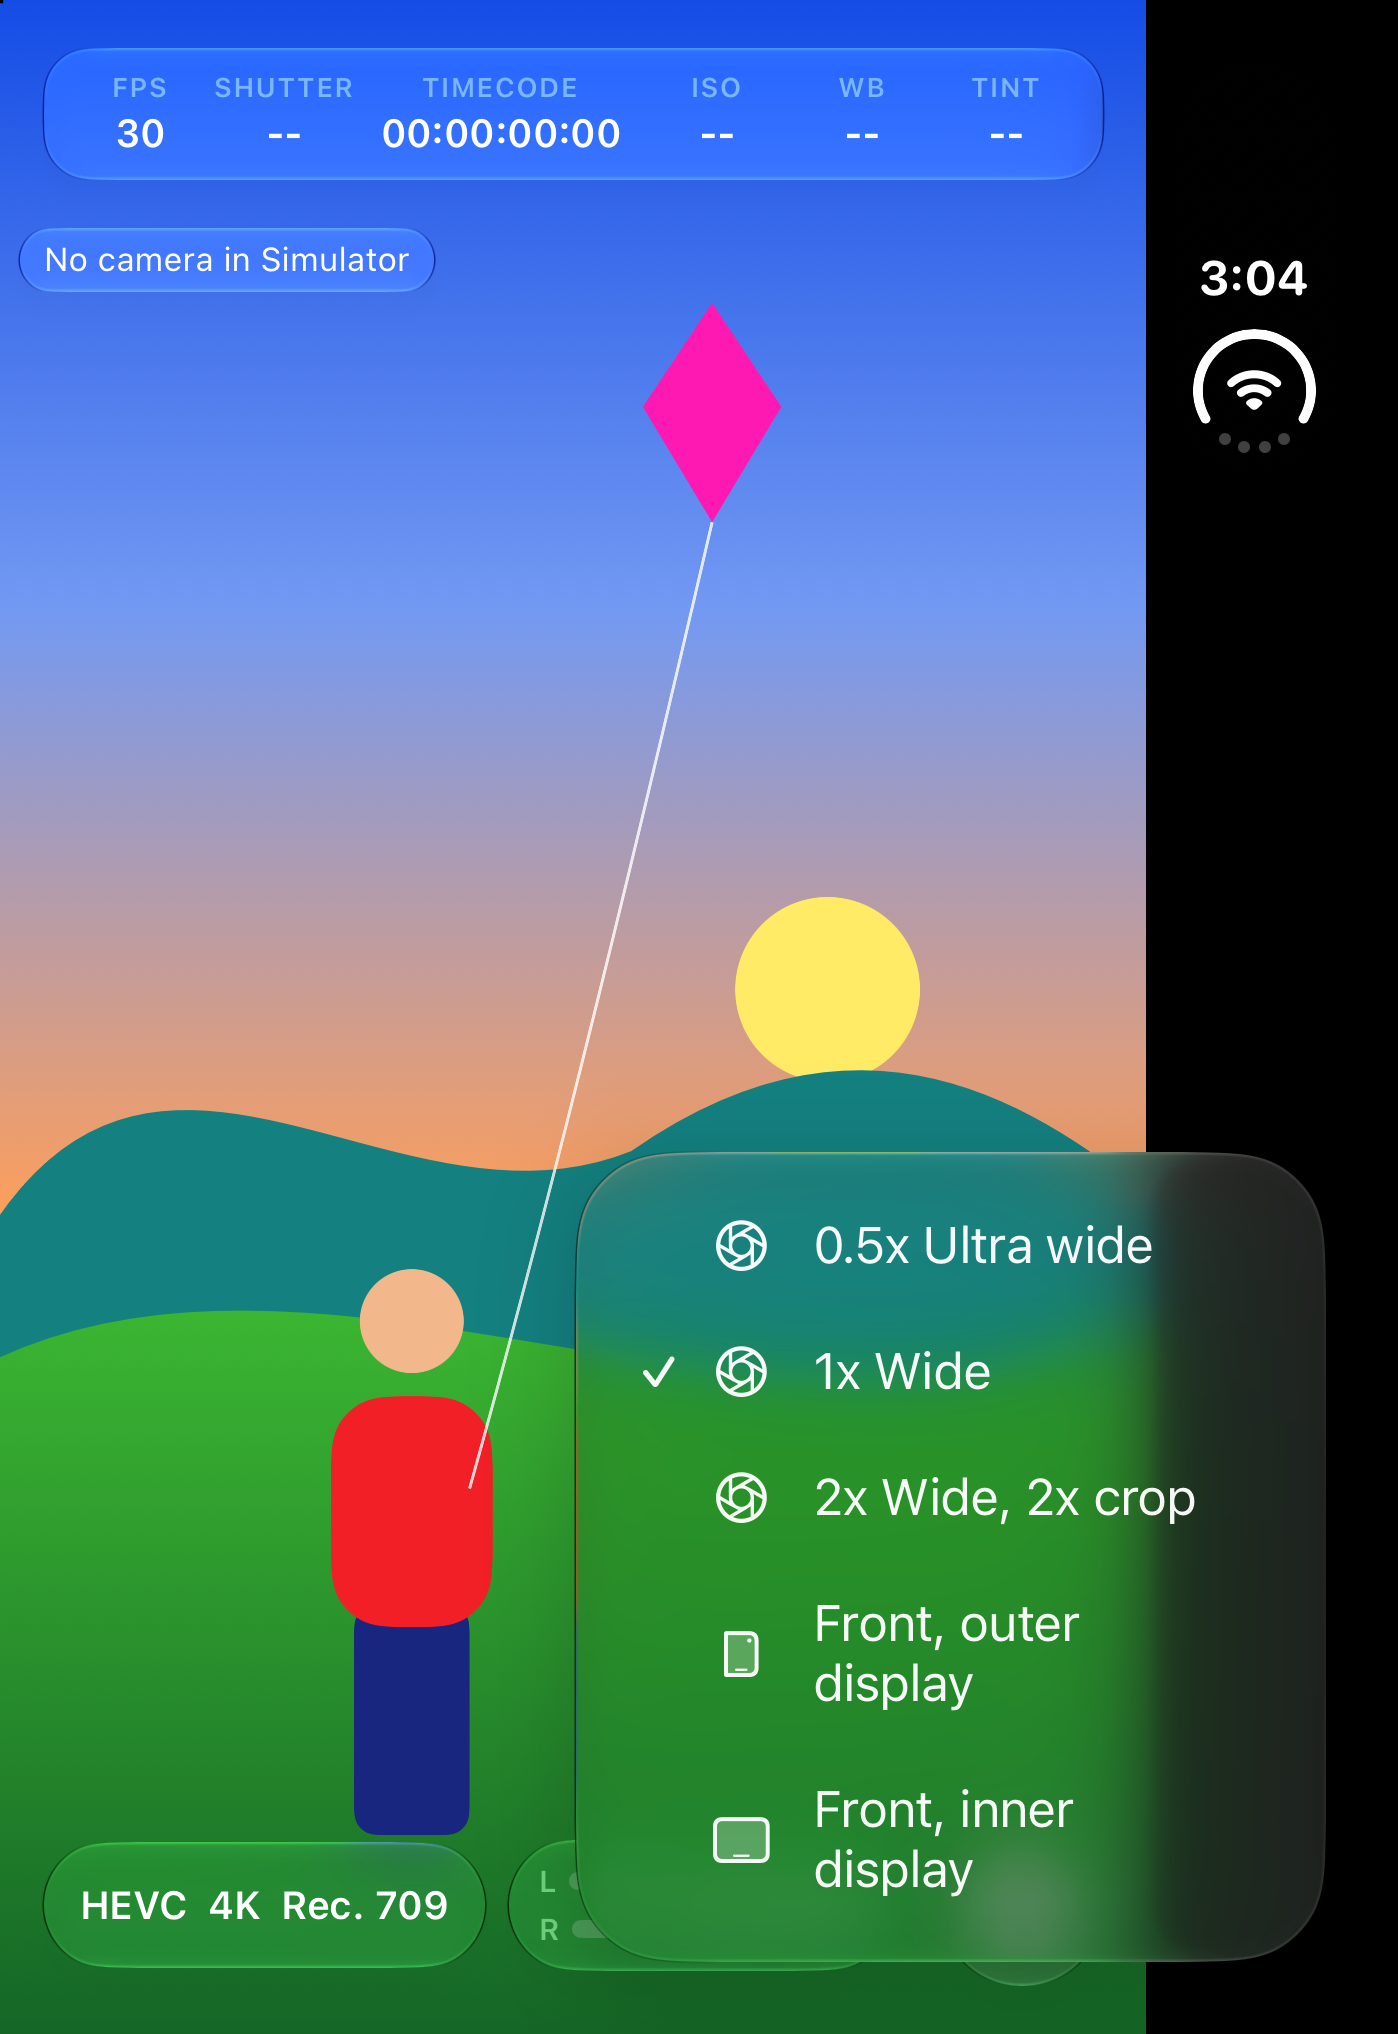
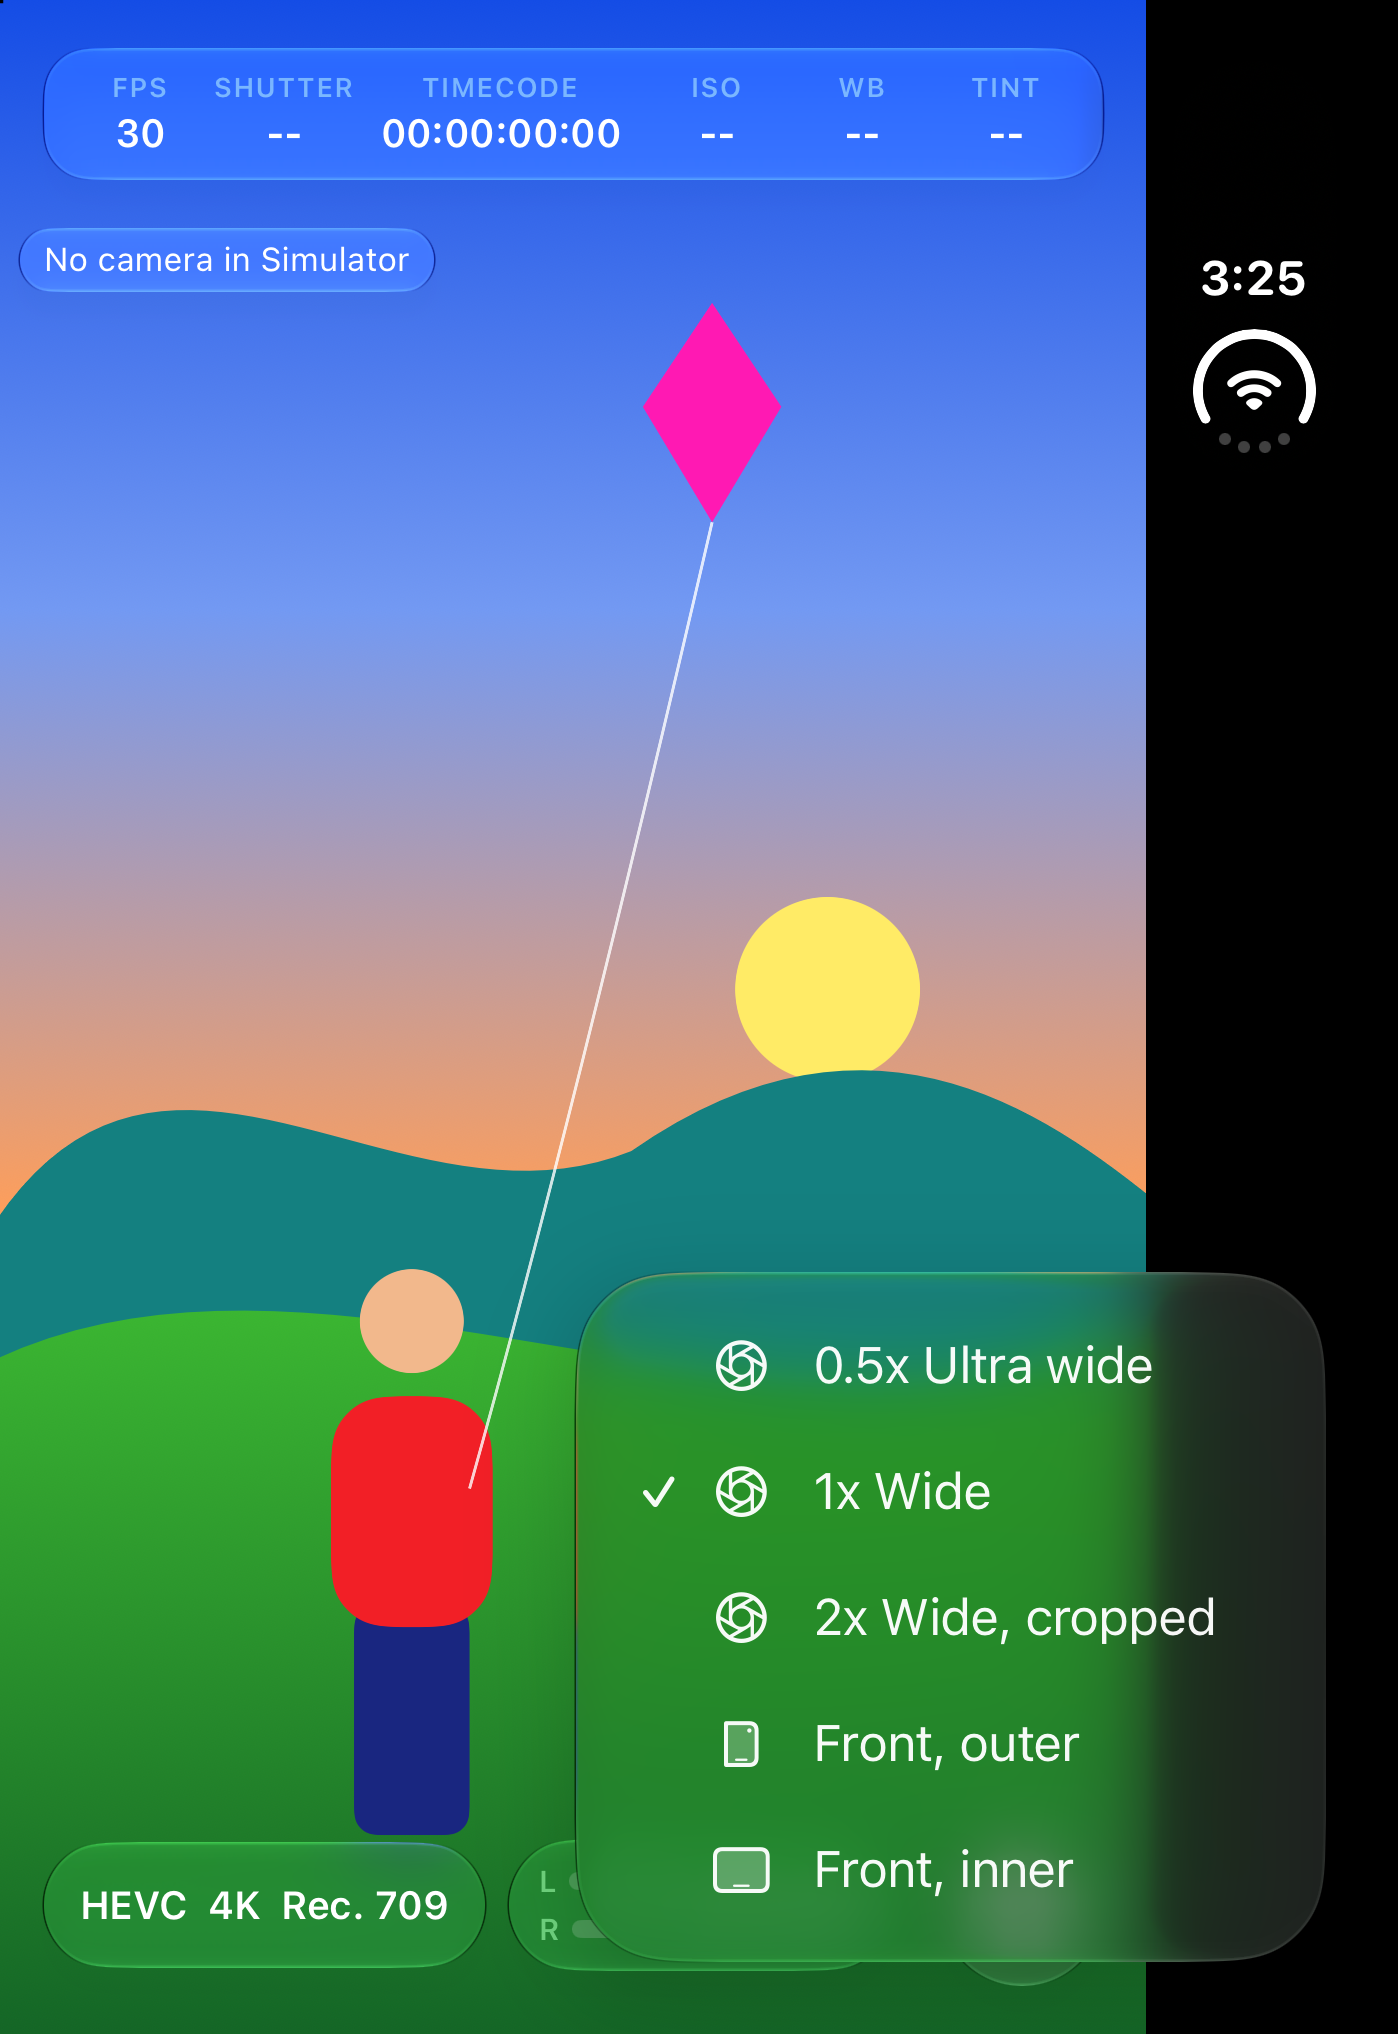
fix: shorten the lens menu titles so each row fits on one line

diff --git a/OpenCamTests/LensBadgeTests.swift b/OpenCamTests/LensBadgeTests.swift
@@ -14,8 +14,8 @@ import UIKit
         let crop = LensBadge.make(for: lens(.wide, zoom: 2, label: "2x"))
         #expect(ultraWide.shortText == "0.5x"); #expect(wide.shortText == "1x"); #expect(crop.shortText == "2x")
         #expect([ultraWide, wide, crop].allSatisfy { $0.symbol == nil })
-        #expect(ultraWide.menuTitle == "Ultra wide"); #expect(wide.menuTitle == "Wide"); #expect(crop.menuTitle == "Wide, 2x crop")
-        #expect(ultraWide.rowTitle == "0.5x Ultra wide")
+        #expect(ultraWide.menuTitle == "Ultra wide"); #expect(wide.menuTitle == "Wide"); #expect(crop.menuTitle == "Wide, cropped")
+        #expect([ultraWide, wide, crop].map(\.rowTitle) == ["0.5x Ultra wide", "1x Wide", "2x Wide, cropped"])
     }
 
     /// The device names them by their long localized names; the strip shows a symbol of the phone instead.
@@ -28,8 +28,8 @@ import UIKit
             #expect(UIImage(systemName: symbol) != nil)
         }
         #expect(outer.symbol != inner.symbol)
-        #expect(outer.menuTitle == "Front, outer display"); #expect(inner.menuTitle == "Front, inner display")
-        #expect(outer.rowTitle == "Front, outer display")
+        #expect(outer.menuTitle == "Front, outer"); #expect(inner.menuTitle == "Front, inner")
+        #expect(outer.rowTitle == "Front, outer"); #expect(inner.rowTitle == "Front, inner")
         #expect(UIImage(systemName: LensBadge.backLensSymbol) != nil)
     }
 
@@ -46,7 +46,10 @@ import UIKit
         #expect(Set(lenses.map(\.kind)) == [.ultraWide, .wide, .outerUltraWide, .innerUltraWide])
         try #require(lenses.count == 5)
         let titles = lenses.map { LensBadge.make(for: $0).rowTitle }
+        #expect(titles == ["0.5x Ultra wide", "1x Wide", "2x Wide, cropped", "Front, outer", "Front, inner"])
         #expect(Set(titles).count == 5)
-        #expect(titles.allSatisfy { $0.count <= 24 })
+        // Short enough for one line in the folded display's menu, and each zoom named once in its row.
+        #expect(titles.allSatisfy { $0.count <= 16 })
+        #expect(titles.allSatisfy { title in ["0.5x", "1x", "2x"].allSatisfy { title.components(separatedBy: $0).count <= 2 } })
     }
 }

diff --git a/OpenCam/Capability/LensBadge.swift b/OpenCam/Capability/LensBadge.swift
@@ -10,7 +10,7 @@ nonisolated struct LensBadge: Sendable, Equatable {
 
     var shortText: String?        // "0.5x", "1x", "2x" for back lenses; nil when the strip shows only a symbol
     var symbol: String?           // an SF Symbol name for the front cameras; nil for back lenses
-    var menuTitle: String         // "Ultra wide", "Wide", "Wide, 2x crop", "Front, outer display", "Front, inner display"
+    var menuTitle: String         // "Ultra wide", "Wide", "Wide, cropped", "Front, outer", "Front, inner"
 
     /// The menu row's title: the zoom text before the name for back lenses, the name alone for the front cameras.
     var rowTitle: String {
@@ -22,11 +22,11 @@ nonisolated struct LensBadge: Sendable, Equatable {
         switch (lens.kind, lens.zoomFactor) {
         case (.ultraWide, 1): LensBadge(shortText: "0.5x", symbol: nil, menuTitle: "Ultra wide")
         case (.wide, 1): LensBadge(shortText: "1x", symbol: nil, menuTitle: "Wide")
-        case (.wide, 2): LensBadge(shortText: "2x", symbol: nil, menuTitle: "Wide, 2x crop")
+        case (.wide, 2): LensBadge(shortText: "2x", symbol: nil, menuTitle: "Wide, cropped")
         // Both symbols are in this SDK (checked with `UIImage(systemName:)` in `LensBadgeTests`): `iphone.duo` is the folded
         // phone with its outer camera, `iphone.duo.open.landscape` the open phone.
-        case (.outerUltraWide, _): LensBadge(shortText: nil, symbol: "iphone.duo", menuTitle: "Front, outer display")
-        case (.innerUltraWide, _): LensBadge(shortText: nil, symbol: "iphone.duo.open.landscape", menuTitle: "Front, inner display")
+        case (.outerUltraWide, _): LensBadge(shortText: nil, symbol: "iphone.duo", menuTitle: "Front, outer")
+        case (.innerUltraWide, _): LensBadge(shortText: nil, symbol: "iphone.duo.open.landscape", menuTitle: "Front, inner")
         default: LensBadge(shortText: lens.label, symbol: nil, menuTitle: lens.label)
         }
     }
